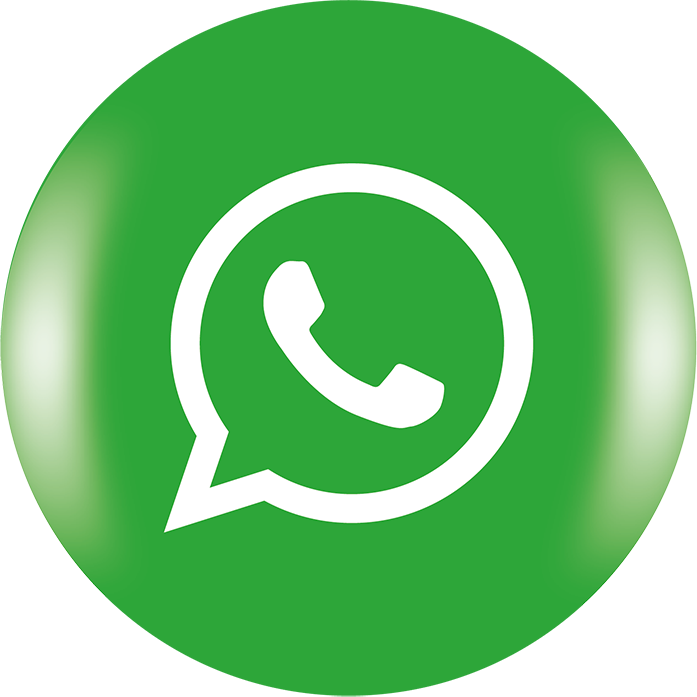
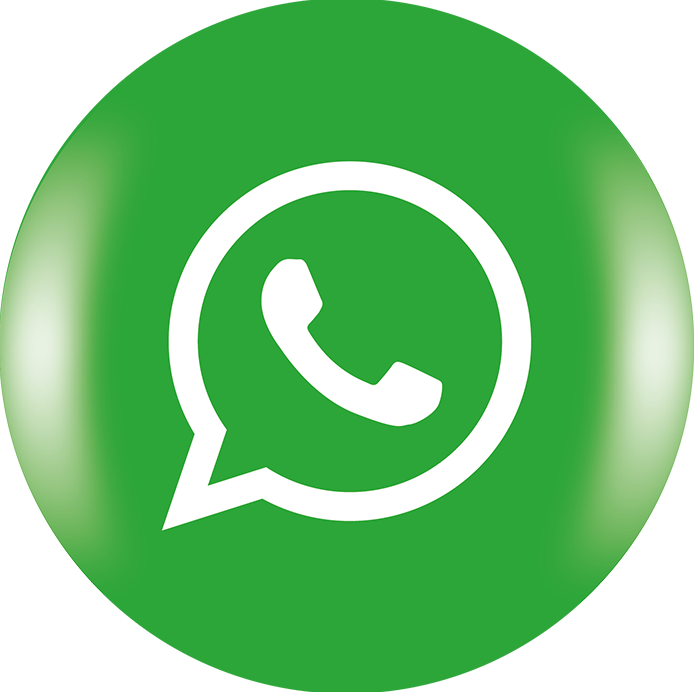
process container

diff --git a/src/components/Main.js b/src/components/Main.js
@@ -95,10 +95,14 @@ function Main() {
           <h1>About Us</h1>
           <hr />
           <p>
-            Paradise Cabinet is a subsidiary company of MFY Construction. Lorem
-            ipsum dolor sit amet consectetur adipisicing elit. Totam quaerat
-            quia quos minima deserunt amet accusamus, iure culpa id, maiores,
-            autem dicta laboriosam ipsam ex quo sed officiis exercitationem non!
+            Paradise cabinet is local cabinet supplier located in Paradise
+            California. We supply high quality assembled cabinets for your
+            kitchen and bathroom projects delivered to project location and also
+            offer installation service with&nbsp;
+            <a href="https://www.mfyconstruction.com/">
+              <em> Mfy Construction</em>
+            </a>
+            .
           </p>
         </div>
         <div className="bigLogo">
@@ -137,22 +141,15 @@ function Main() {
               className="faEllipsisVertical"
               icon={faEllipsisVertical}
             />
-            <h3>Contact</h3>
+            <div>
+              <h3>Contact</h3>
+              <p>Simply fill out the contact form, email or text us.</p>
+            </div>
           </div>
           <div className="aniItemLeft">
             <div className="aniItemIconContainer blue">
-              <FontAwesomeIcon className="aniItemIconBlue" icon={faPenRuler} />
-            </div>
-            <FontAwesomeIcon
-              className="faEllipsisVertical"
-              icon={faEllipsisVertical}
-            />
-            <h3>Design</h3>
-          </div>
-          <div className="aniItemRight">
-            <div className="aniItemIconContainer orange">
               <FontAwesomeIcon
-                className="aniItemIconOrange"
+                className="aniItemIconBlue"
                 icon={faCalendarDays}
               />
             </div>
@@ -160,7 +157,32 @@ function Main() {
               className="faEllipsisVertical"
               icon={faEllipsisVertical}
             />
-            <h3>Schedule</h3>
+            <div>
+              <h3>Schedule</h3>
+              <p>
+                We will schedule an appointment for taking measurements and
+                presents sample doors and hardware at your location.
+              </p>
+            </div>
+          </div>
+          <div className="aniItemRight">
+            <div className="aniItemIconContainer orange">
+              <FontAwesomeIcon
+                className="aniItemIconOrange"
+                icon={faPenRuler}
+              />
+            </div>
+            <FontAwesomeIcon
+              className="faEllipsisVertical"
+              icon={faEllipsisVertical}
+            />
+            <div>
+              <h3>Design</h3>
+              <p>
+                After completing 3D computer design we will double check the
+                measurements and style with you.
+              </p>
+            </div>
           </div>
           <div className="aniItemLeft">
             <div className="aniItemIconContainer">
@@ -170,7 +192,13 @@ function Main() {
               className="faEllipsisVertical"
               icon={faEllipsisVertical}
             />
-            <h3>Delivery</h3>
+            <div>
+              <h3>Delivery</h3>
+              <p>
+                Your cabinets can be delivered in 2 weeks depending on style and
+                cabinet availability.
+              </p>
+            </div>
           </div>
           <div className="aniItemRight">
             <div className="aniItemIconContainer blue">
@@ -196,7 +224,7 @@ function Main() {
               className="faEllipsisVertical"
               icon={faEllipsisVertical}
             />
-            <h3>Deployment</h3>
+            <h3>Enjoy</h3>
           </div>
         </div>
       </section>

diff --git a/src/styles/productDetail.css b/src/styles/productDetail.css
@@ -1,7 +1,7 @@
 .productDetailSection{
     margin: 0 auto;
     padding: 0.5rem 1.5rem;
-    
+    position: relative;
 }
 
 .slideImageContainer{
@@ -9,10 +9,13 @@
     flex-direction: column;
     justify-content: center;
     align-items: center;
-    position: relative;
+    
+    height: 513px;
+   
 }
 .slideImageContainer img{
     width:60%;
+    
 }
 .slideImageContainer button{
     position: absolute;
@@ -20,18 +23,25 @@
     height: 50px;
     border-radius: 50%;
     border:none;
+    opacity: 0.5;
+}
+.slideImageContainer button:hover {
+    opacity: 0.9;
 }
 #prevButton{
     
-    left:20%;
+    left:21.5%;
    
 }
 #nextButton {
     
-    right: 20%;
+    right: 21.5%;
    
 }
-
+.chevron{
+  
+    height: 20px;
+}
 tbody th{
     text-align: start;
 }
@@ -50,27 +60,32 @@ th,td{
             width: 80%;
         }
                 #prevButton {
-                    position: absolute;
-                    left: 10%;
+                    
+                    left: 13.2%;
                 }
         
                 #nextButton {
-                    position: absolute;
-                    right: 10%;
+                    
+                    right: 13.2%;
                 }
 }
 @media (max-width:640px) {
+    .productDetailSection {
+            
+            padding: 0.5rem 1rem;
+            
+        }
 
     .slideImageContainer img {
         width: 100%;
     }
         #prevButton {
-            position: absolute;
-            left: 0;
+            
+            left: 24px;
         }
     
         #nextButton {
-            position: absolute;
-            right: 0;
+            
+            right: 24px;
         }
 }

diff --git a/src/styles/header.css b/src/styles/header.css
@@ -7,11 +7,12 @@
 
 header{
     
-    padding:0.5rem 1.5rem 0 1.5rem;
+   padding:0.5rem 1.5rem 0 1.5rem;
    position: sticky;
    top:0;
    background-color: white;
    z-index: 10;
+box-shadow: 0 0 60px rgb(0 0 0 / 12%);
 }
 .headerLogo{
     width:120px;
@@ -56,9 +57,10 @@ header{
     width:80px;
     border-radius: 50%;
     transition:all 0.2s ease;
+    box-shadow: rgba(0, 0, 0, 0.45) 0px 5px 15px;
 }
 .whatsappLogo:hover{
-    box-shadow: 5px 5px 3px 2px var(--color-buttonGrey);
+box-shadow: rgba(0, 0, 0, 0.45) 0px 10px 20px;
 
 }
 
@@ -84,8 +86,36 @@ nav a:hover {
 }
 
 @media (max-width:640px) {
+    header{
+        padding: 0.5rem 1rem 0 1rem;
+    }
+        .headerLogo {
+            width: 100px;
+        }
+                .headerTopRight a:not(:last-child) {
+                    
+                    font-size: 0.9rem;
+                    
+                }
+                                .faPhone {
+                                    height: 18px;
+                                    margin-right: 8px;
+                                    color: var(--color-textGrey);
+                                }
+                
+                                .faEnvelope {
+                                    height: 18px;
+                                    color: var(--color-textGrey);
+                                }
+    .whatsappLogo{
+        width: 50px;
+    }
     nav ul li:not(:last-child) {
         display: none;
     }
+        nav ul {
+           
+            margin-top: 0.5rem;
+        }
 }
 

diff --git a/src/styles/main.css b/src/styles/main.css
@@ -47,9 +47,8 @@ hr{
 }
 section{
     display: flex;
-    
-    margin:48px auto;
-    padding: 24px;
+    margin:3rem auto;
+    padding: 1.5rem;
     align-items: center;
     max-width: 1140px;
 }
@@ -58,6 +57,16 @@ section{
 }
 .about p{
     margin:2rem 0;
+    text-indent: 1rem;
+}
+.about a{
+    text-decoration: none;
+    color: var(--color-orange);
+    
+}
+.about a:hover {
+    text-decoration: underline;
+
 }
 .bigLogo{
     width:60%;
@@ -99,7 +108,7 @@ section{
     transition-duration: 1s;
     padding: 0 !important;
     overflow: hidden;
-    margin: 15px 0;
+    margin: 1.5rem 0;
 }
 
 
@@ -112,7 +121,7 @@ section{
 
 .homeProductName {
     position: absolute;
-    bottom: -10px;
+    bottom: 0;
     margin: 0 12%;
     width: 70%;
     text-align: center;
@@ -144,6 +153,10 @@ section{
 }
 .processAnimation h3{
     color:var(--color-textGrey);
+    text-decoration: underline;
+}
+.processAnimation p {
+    text-align: start;
 }
 
 .aniItemRight, .aniItemLeft{
@@ -247,6 +260,9 @@ margin-left: 10%;
 }
 
 @media (max-width:640px){
+    section{
+        padding: 1rem;
+    }
     .homeProductContainer {
             grid-template-columns: 90%;
         }

diff --git a/src/components/Header.js b/src/components/Header.js
@@ -5,12 +5,14 @@ import whatsappLogo from "../assets/whatsapp3.png";
 import styles from "../styles/header.css";
 import { FontAwesomeIcon } from "@fortawesome/react-fontawesome";
 import { faPhone, faEnvelope } from "@fortawesome/free-solid-svg-icons";
-
+import { Link } from "react-router-dom";
 function Header() {
   return (
     <header className="spaceBetween">
       <div className="headerLeft">
-        <img className="headerLogo" src={paradiseLogo} alt="paradiseLogo" />
+        <Link to={"/"}>
+          <img className="headerLogo" src={paradiseLogo} alt="paradiseLogo" />
+        </Link>
       </div>
       <div className="headerRight">
         <div className="headerTopRight">
